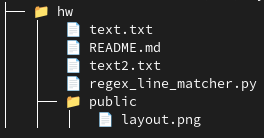
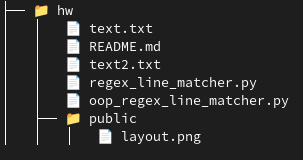
Readme updated, file name changed.

Changed region(s): [[0.0, 0.0, 0.9697, 0.9275], [0.2121, 0.8116, 0.2727, 0.9275]]

diff --git a/oop_regex_line_matcher.py b/oop_regex_line_matcher.py
@@ -2,7 +2,7 @@ import argparse
 import sys
 import re
 
-# Base class for handling input and searches
+# Base class for handling input and searches, acting as the Context in the Strategy pattern
 class RegexSearcher:
     def __init__(self, regex, input_sources=None):
         self.regex = re.compile(regex)
@@ -39,6 +39,7 @@ class RegexSearcher:
         # Default implementation, should be overridden
         pass
 
+# Strategy implementations below, each subclass represents a concrete strategy for output formatting
 # Subclass for machine-readable output
 class MachineReadable(RegexSearcher):
     def __init__(self, regex, input_sources=None):

diff --git a/README.md b/README.md
@@ -25,11 +25,13 @@ Below is an image illustrating the layout of the `public` folder, showcasing whe
 
 ## File Descriptions
 
-- **regex_line_matcher.py**: This is the main script. It searches for lines in text files that match a specified regular expression. The script can read from files listed in command arguments or from Standard Input (STDIN) if no files are specified.
+- **oop_regex_line_matcher.py**: This is the main script and the most recent version, which utilizes Object-Oriented Programming principles. It searches for lines in text files that match a specified regular expression. This script represents an advanced iteration with improved modularity and flexibility.
 
-- **text.txt**: A test text file used to demonstrate and test the functionality of the `regex_line_matcher.py` script.
+- **regex_line_matcher.py**: A previous version of the script that may not fully utilize Object-Oriented Programming principles. It serves as an earlier iteration for searching lines that match specified regular expressions in text files. The script can read from files listed in command arguments or from Standard Input (STDIN) if no files are specified.
 
-- **test2.txt**: Another test text file that serves a similar purpose.
+- **text.txt**: A test text file used to demonstrate and test the functionality of the main script, `oop_regex_line_matcher.py`. This file is relatively small, making it ideal for quick demonstrations and validations.
+
+- **text2.txt**: Another test text file, serving a similar purpose. This file is used to validate functionalities in different versions of the script, including the earlier `regex_line_matcher.py`.
 
 ## Features Implemented
 
@@ -39,15 +41,22 @@ Below is an image illustrating the layout of the `public` folder, showcasing whe
   - **Underscore**: Prints a caret (`^`) under the matching text.
   - **Color**: Highlights the matching text in the terminal.
   - **Machine Readable**: Generates output in a format suitable for machine parsing: `file_name:no_line:start_pos:matched_text`.
+  - **Combined Color and Underscore**: Provides an option to highlight matching text and print carets under the matching sections simultaneously.
 - **Support for Multiple Matches**: Capable of identifying and formatting multiple matches within a single line, without overlapping.
 - **PEP8 Compliant**: The code structure adheres to the PEP8 coding guidelines, ensuring readability and maintainability.
+- **Error Handling**: Includes basic error management for file access issues and provides user feedback for missing arguments.
+- **Documentation**: Inline comments and method descriptions are provided to explain the functionality and usage of the classes and functions.
+
+### Design Pattern Used
+
+- **Strategy Pattern**: The script employs the strategy pattern through the use of different output formatting classes that inherit from a common base. This design allows for flexible and interchangeable output behaviors depending on user options without altering the core logic of input processing and regex matching.
 
 ## Usage
 
-To use the script, navigate to the directory containing `regex_line_matcher.py` and run the following command in the terminal:
+To use the script, navigate to the directory containing `oop_regex_line_matcher.py` and run the following command in the terminal:
 
 ```bash
-python regex_line_matcher.py -r "YOUR_REGEX" -f text.txt file2.txt ... [OPTIONS]
+python oop_regex_line_matcher.py -r "YOUR_REGEX" -f text2.txt ... [OPTIONS]
 ```
 
 ### Options
@@ -60,18 +69,22 @@ python regex_line_matcher.py -r "YOUR_REGEX" -f text.txt file2.txt ... [OPTIONS]
 
 ### Examples
 
-Search for digits in `text.txt` and highlight them:
+Search for digits in `text2.txt` and highlight them:
 
 ```bash
-python regex_line_matcher.py -r "\d+" -f text.txt --color
+python oop_regex_line_matcher.py -r "\d+" -f text.txt --color
 ```
 
 Read from STDIN and generate machine-readable output for matches:
 
 ```bash
-cat text.txt | python regex_line_matcher.py -r "\d+" --m
+cat text.txt | python oop_regex_line_matcher.py -r "\d+" --machine
 ```
 
 ## Implementation Details
 
-The script employs the `argparse` module for command-line argument parsing and the `re` module for regex matching, adhering to recommended practices for Python scripting. The choice of output formatting demonstrates a simple yet effective application of conditional logic to provide user-friendly and versatile output customization.
+The script employs the `argparse` module for command-line argument parsing and the `re` module for regex matching, adhering to recommended practices for Python scripting. The choice of output formatting demonstrates a simple yet effective application of conditional logic to provide user-friendly and versatile output customization based on user commands. This approach not only makes the script highly adaptable to different use cases but also showcases efficient programming techniques in Python.
+
+## License
+
+This script is made available under the MIT License, which allows for wide use, modification, distribution, and private or commercial purposes. The MIT License is one of the most permissive and straightforward licenses available, ensuring that the script remains free and open-source, with minimal restrictions on its usage. This approach encourages innovation and collaboration by allowing users and developers to build upon the work without complex legal barriers.
